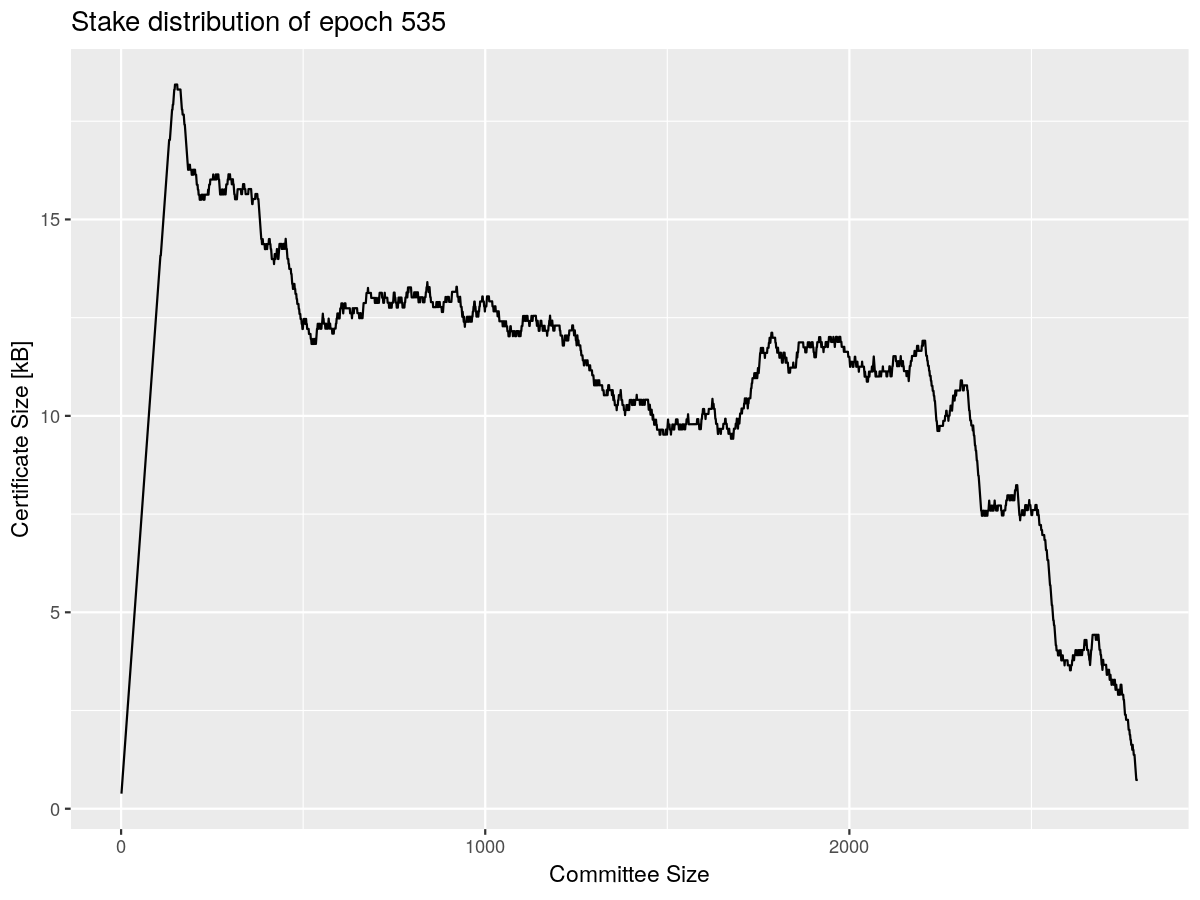
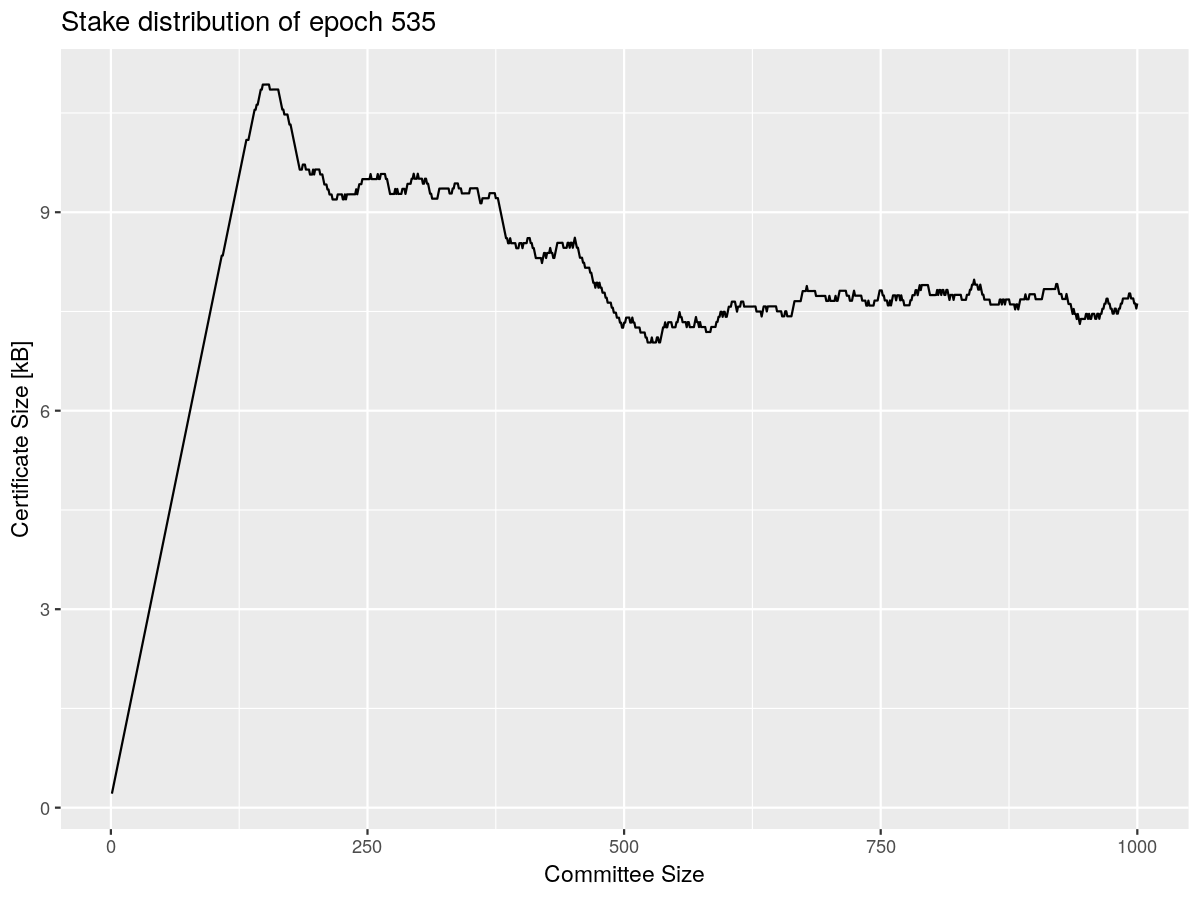
Redraw plot for certificate size with compressed BLS

diff --git a/analytics/certificates-jan2025.md b/analytics/certificates-jan2025.md
@@ -108,8 +108,8 @@ but not including any minor overhead arising from CBOR serialization. As noted p
 
 ### Realistic stake distribution
 
-The following plots show number of persistent votes and votes, along with certificate size, for the `mainnet` stake distribution of Epoch 535. The dashed line in the first two plots has slope one, so the gap between it and the solid line indicates the number of non-persistent voters or votes. The certificate-size plot does not take into account a potential reduction in certificate size from omitting votes in excess of a quorum.
+The following plots show number of persistent votes and votes, along with certificate size, for the `mainnet` stake distribution of Epoch 535. The dashed line in the first plot has slope one, so the gap between it and the solid line indicates the number of non-persistent voters. The certificate-size plot does not take into account a potential reduction in certificate size from omitting votes in excess of a quorum.
 
-| Voters                                            | Votes                                           | Certificate size                                          |
-| ------------------------------------------------- | ----------------------------------------------- | --------------------------------------------------------- |
-| ![Fait-accompli voters](fait-accompli-voters.svg) | ![Fait-accompli votes](fait-accompli-votes.svg) | ![Fait-accompli certificate size](fait-accompli-cert.svg) |
+| Persistent voters                                 | Certificate size                                          |
+| ------------------------------------------------- | --------------------------------------------------------- |
+| ![Fait-accompli voters](fait-accompli-voters.svg) | ![Fait-accompli certificate size](fait-accompli-cert.svg) |
